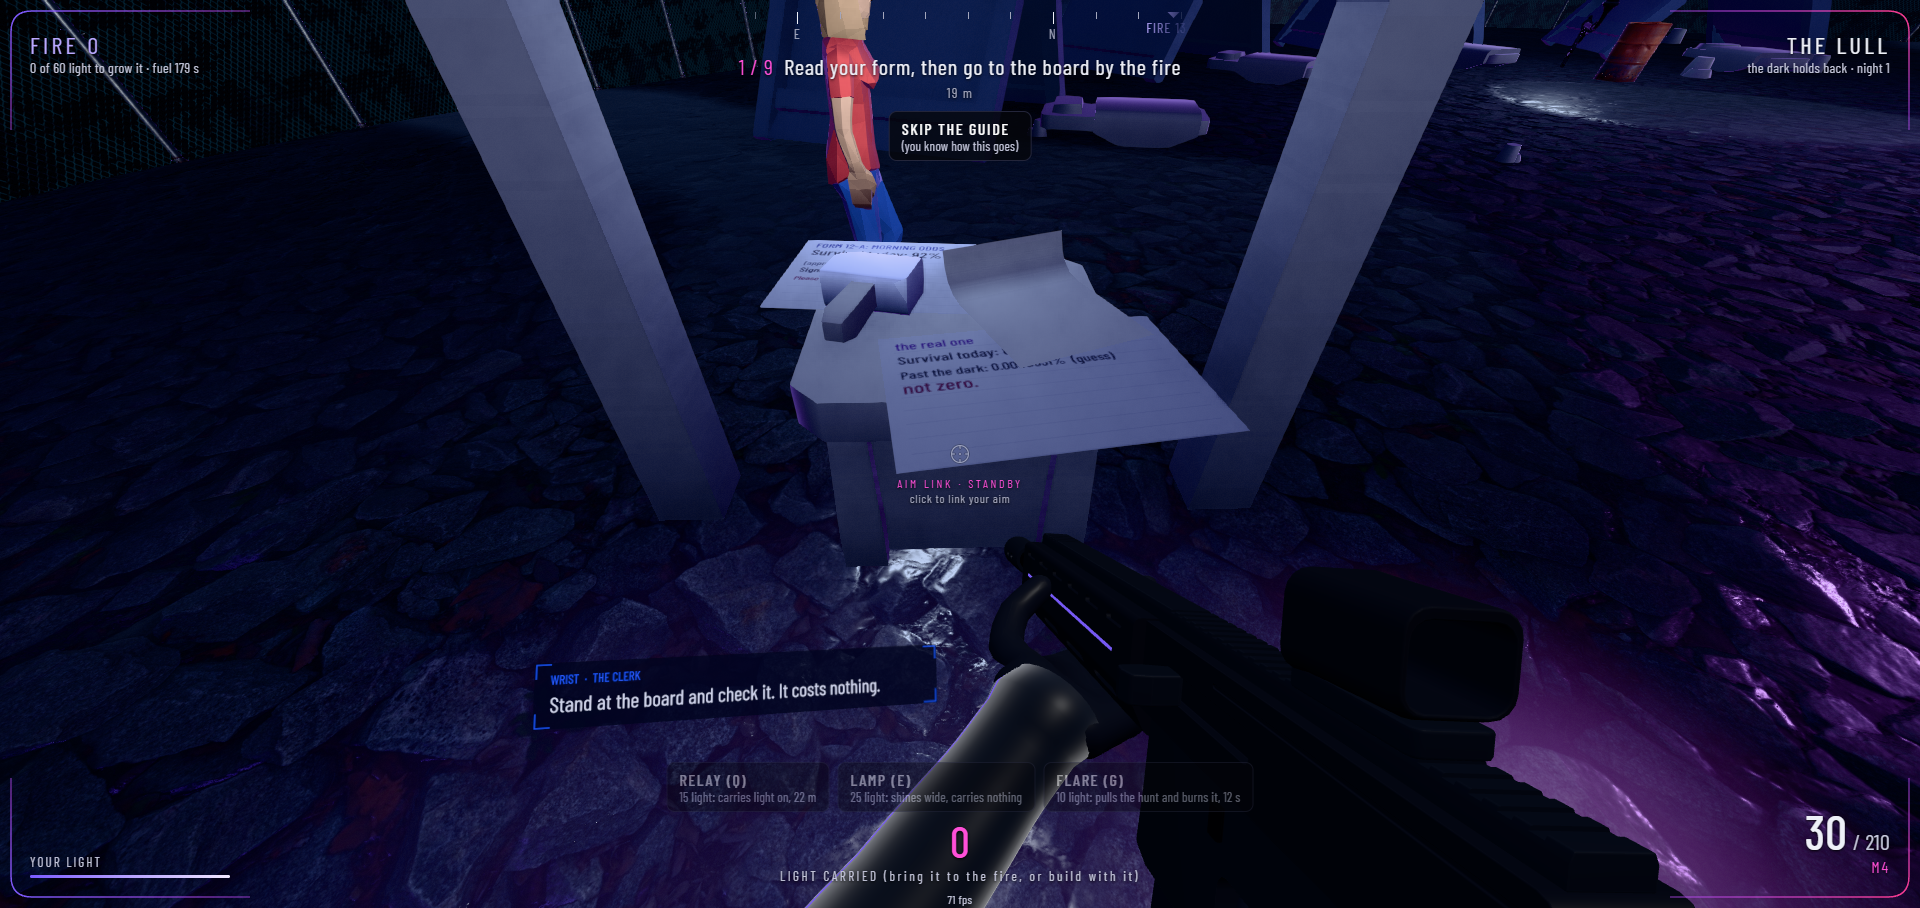
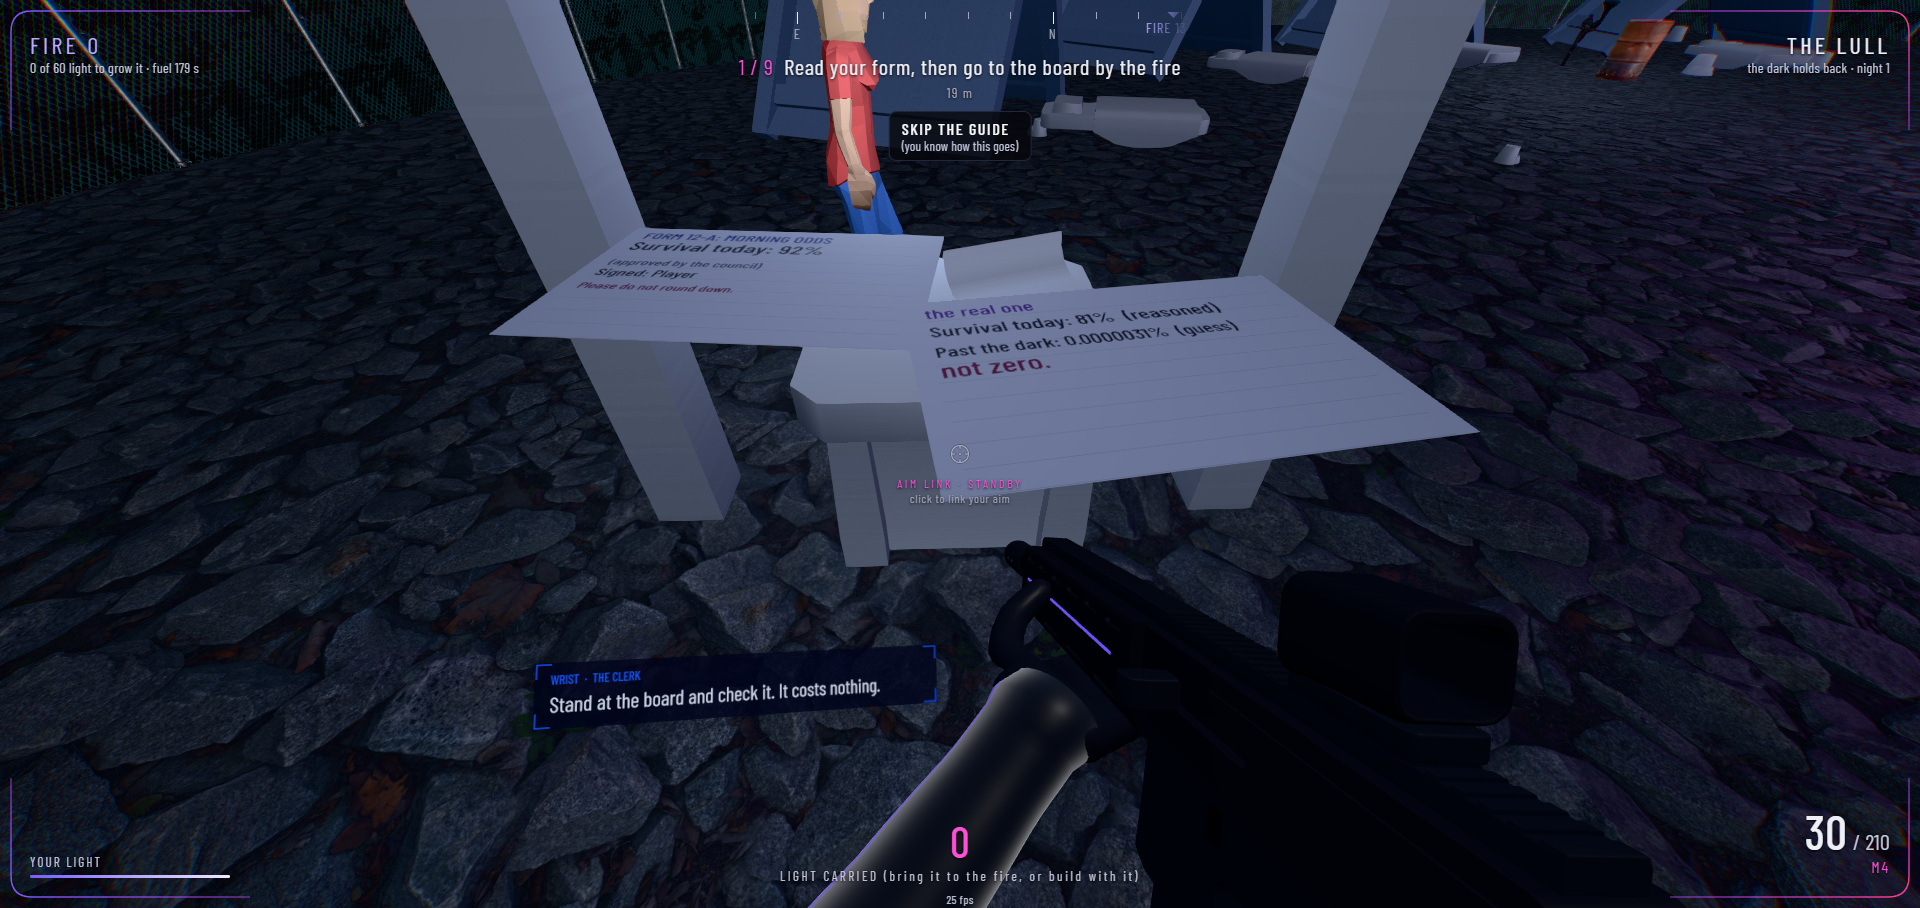
Lane D: edge sign post is real, dead box line removed, model/box robot test, credits, lane marks

diff --git a/next/client/camp.js b/next/client/camp.js
@@ -92,8 +92,8 @@ export class Camp {
     wall.position.set(tx, ty + 2.1, tz); wall.rotation.y = Math.atan2(-tx, -tz); this.scene.add(wall); this.tdrawn = '';
     // the edge sign by the gate: what the camp's paperwork says about the dark past the wall (LORE.md: the maze is the dark; know before you go)
     this.ec = document.createElement('canvas'); this.ec.width = 768; this.ec.height = 480; this.etex = new THREE.CanvasTexture(this.ec); this.etex.colorSpace = THREE.SRGBColorSpace; this.edrawn = '';
-    const ex = EDGE.x, ez = EDGE.z, ey = land(ex, ez), sign = new THREE.Mesh(new THREE.PlaneGeometry(2.4, 1.5), new THREE.MeshBasicMaterial({ map: this.etex, color: 0xc4c4c4 })), spost = new THREE.Mesh(new THREE.BoxGeometry(0.1, 1.5, 0.1), new THREE.MeshStandardMaterial({ color: 0x15171d }));
-    sign.position.set(ex, ey + 2, ez); sign.rotation.y = Math.atan2(-ex, -ez); spost.position.set(ex, ey + 0.75, ez); this.scene.add(sign, spost); this.sign = sign;
+    const ex = EDGE.x, ez = EDGE.z, ey = land(ex, ez), sign = new THREE.Mesh(new THREE.PlaneGeometry(2.4, 1.5), new THREE.MeshBasicMaterial({ map: this.etex, color: 0xc4c4c4 }));
+    sign.position.set(ex, ey + 2, ez); sign.rotation.y = Math.atan2(-ex, -ez); this.scene.add(sign); this.sign = sign;
     this.checks = 0; try { this.checks = +localStorage.getItem('lf_checks') || 0; } catch (e) { /* (private window: counted this session only) */ }   // (how many nights you went and looked: the dinner table remembers)
     this.era = null; fetch('era_state.json?t=' + Date.now()).then(r => r.json()).then(j => { this.era = j; this.drawn = ''; }).catch(() => {});   // (written by sim/eras.mjs from the real robot results and your verdicts)
     this.lastNight = -1; this.jobMsgT = 0;
@@ -315,7 +315,6 @@ export class Camp {
     const putH = (url, x, z, h, ry = 0) => get(url).then(m => { if (!m) return null; const o = m.scene.clone(), k = h / m.s.y; o.scale.setScalar(k); o.position.set(x - m.c.x * k, land(x, z) - m.y0 * k, z - m.c.z * k); o.rotation.y = ry; this.scene.add(o); return o; });   /* (a real scan stood to a given height: poles and posts are Poly Haven street lamps, not code boxes, 2026-10-19) */
     const LAMPPOST = 'ph/street_lamp_02/street_lamp_02_1k.gltf';
     /* (draw-call pass: pieces that repeat with one geometry and material (fence, stones, barrels, boxes, metal walls) are folded into one InstancedMesh per sub-mesh once all are placed; each instance matrix is that sub-mesh's own world matrix, so every position, tip, spin and grounding above is kept exactly) */
-    const poleG = new THREE.BoxGeometry(0.12, 3, 0.12), poleM = new THREE.MeshStandardMaterial({ color: 0x23262f, roughness: 0.6 }), bulbG = new THREE.BoxGeometry(0.26, 0.3, 0.26), bulbM = new THREE.MeshStandardMaterial({ color: 0x0b0d14, emissive: 0xe0d8ff, emissiveIntensity: 0.55 });   /* (was 1.4: up close it blew out to a white blob in his eyes, 2026-10-19) */   /* (the three hanging lamps share one pole and one bulb) */
     const FEN = 'ph/modular_chainlink_fence/modular_chainlink_fence_1k.gltf#modular_chainlink_fence_double', POST = 'ph/modular_chainlink_fence/modular_chainlink_fence_1k.gltf#modular_chainlink_fence_post', BAR = 'ph/Barrel_01/Barrel_01_1k.gltf', CRATE = 'ph/old_military_crate/old_military_crate_1k.gltf', PH = n => `ph/${n}/${n}_1k.gltf`;   // (Poly Haven photo scans, CC0: the Kenney toy kit and the code boxes looked like a placeholder up close, his eyes 2026-10-19)
     const batch = new Set([FEN, POST, 'kit/stone.glb', BAR, CRATE, 'kit/box-large.glb', 'kit/structure-metal-wall.glb']), mine = [], pend = [];
     const fold = () => { const groups = new Map(); for (const o of mine) { this.scene.remove(o); o.updateMatrixWorld(true); o.traverse(q => { if (!q.isMesh) return; const k = q.geometry.uuid + '|' + q.material.uuid; if (!groups.has(k)) groups.set(k, []); groups.get(k).push(q); }); }
@@ -363,7 +362,7 @@ export class Camp {
     let q = 7; const rnd = () => (q = (q * 16807) % 2147483647) / 2147483647;
     for (let i = 0; i < 70; i++) { const a = rnd() * Math.PI * 2, r = 24 + rnd() * 50, x = Math.cos(a) * r, z = Math.sin(a) * r; put('kit/stone.glb', x, z, 0.5 + rnd() * rnd() * 2.6, rnd() * 6.3, 0, true); }
     for (let i = 0; i < 14; i++) { const a = rnd() * Math.PI * 2, r = 4 + rnd() * 15, x = Math.cos(a) * r, z = Math.sin(a) * r; if (Math.hypot(x - HUT.x, z - HUT.z) < 5 || Math.hypot(x - BOARD.x, z - BOARD.z) < 3 || r < 5) continue; put('kit/stone.glb', x, z, 0.25 + rnd() * 0.35, rnd() * 6.3, 0, true); }
-    putH(LAMPPOST, BOARD.x, BOARD.z - 0.1, 2.5); putH('kit/signpost.glb', -7, 13.3, 1.5);   // (the board's post and the theory wall's stand: real models)
+    putH(LAMPPOST, BOARD.x, BOARD.z - 0.1, 2.5); putH('kit/signpost.glb', -7, 13.3, 1.5); putH('kit/signpost.glb', EDGE.x, EDGE.z - 0.1, 2.0);   // (the board's post and the theory wall's stand: real models)
     fenceP.then(() => Promise.all(pend)).then(fold);
   }
   speak(role, line, sec) { this.voice = { role, line: line.replace(/[<>&]/g, ''), until: performance.now() + sec * 1000 }; }
